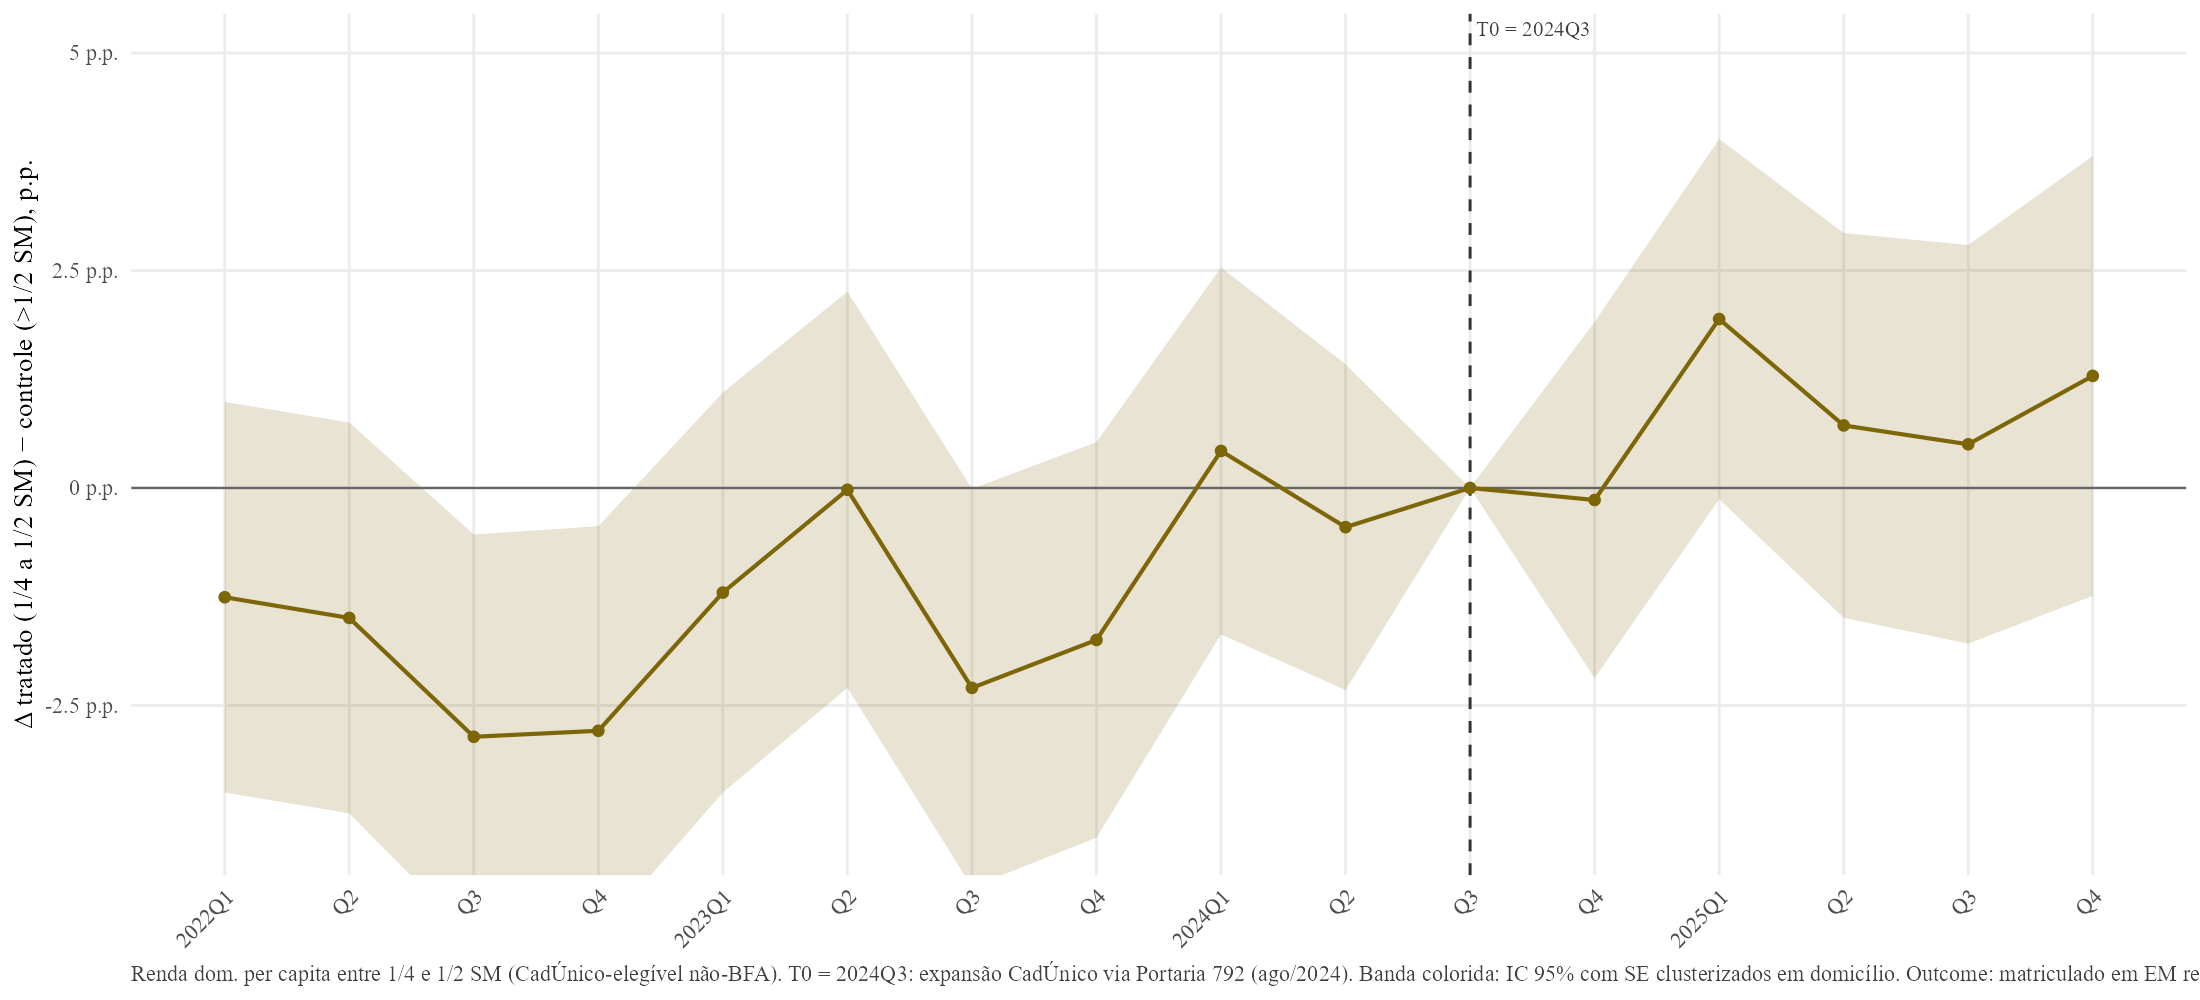
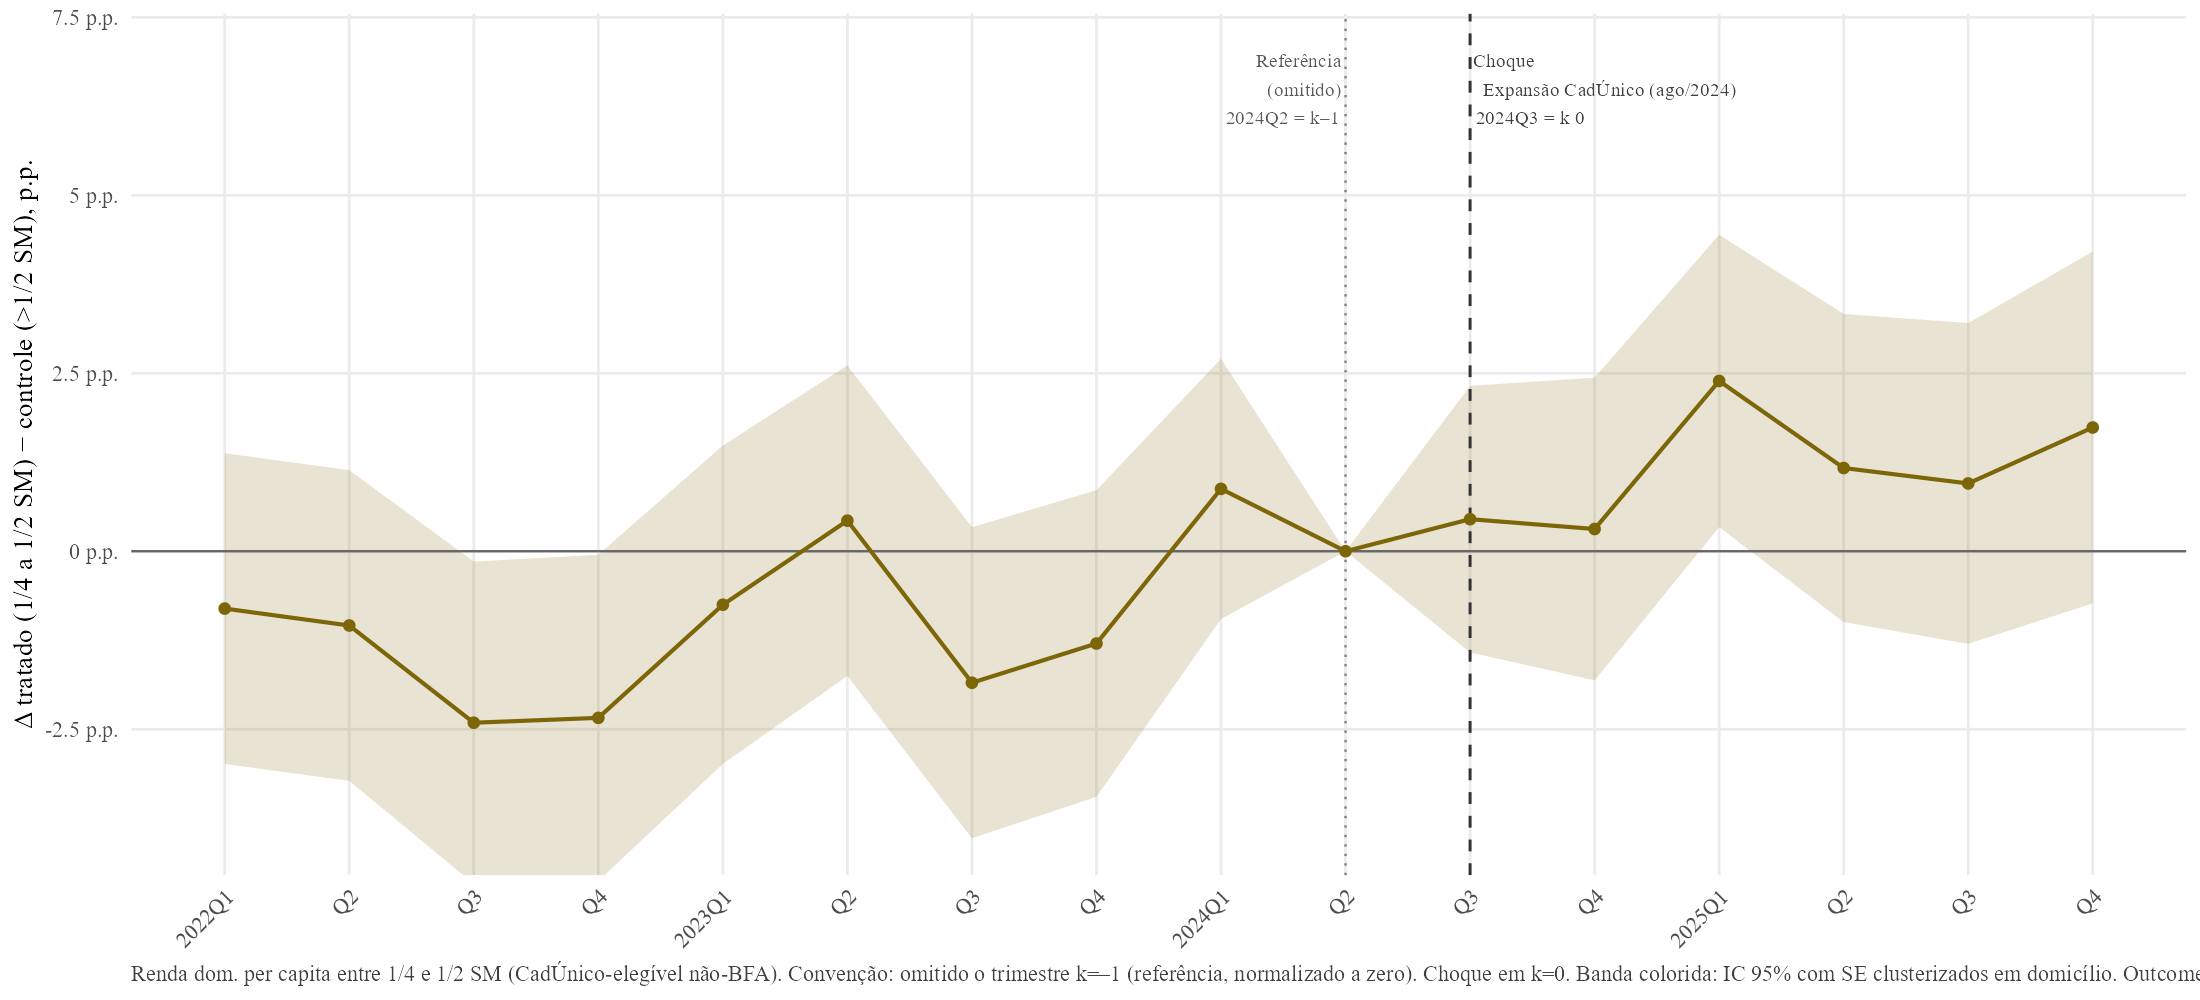
Rodada 34: convencao literatura - omitir k=-1
Decisao metodologica: usar convencao padrao (Autor 2003; Borusyak
et al 2024; Sun-Abraham 2021): omitir o trimestre anterior ao choque
como referencia (k=-1) e mostrar o coef em k=0 explicitamente.

F17a: choque=2023Q4, omitido=2023Q3 (k=-1)
F17b: choque=2024Q3, omitido=2024Q2 (k=-1)

diff --git a/CHANGELOG.md b/CHANGELOG.md
@@ -1646,3 +1646,22 @@ mais tardio (menos trimestres pós-T0 = menos tempo para resposta).
 - C33: adicionada coluna em_or_eja_or_done
 - C36: 2 modelos separados com T0 distinto
 - F17_event_study.R: 2 plots standalone (F17a, F17b)
+
+---
+
+## 2026-06-26 — Rodada 34: Convenção da literatura — omitir k=-1
+
+Decisão metodológica após discussão com autor: usar convenção padrão
+da literatura (Autor 2003; Borusyak, Jaravel & Spiess 2024; Sun &
+Abraham 2021): omitir o trimestre IMEDIATAMENTE ANTERIOR ao choque
+como referência (k=-1), e mostrar o coeficiente em k=0 (trimestre do
+choque) explicitamente.
+
+### Mudanças
+- F17a: choque = 2023Q4 (anúncio), omitido = 2023Q3 (k=-1)
+- F17b: choque = 2024Q3 (expansão), omitido = 2024Q2 (k=-1)
+
+### Vantagem
+Permite ler o coeficiente em k=0 como antecipação/efeito imediato
+do choque. Trimestres pós ficam claramente k=1, k=2, ... vs baseline
+pré-tratamento mais próxima.